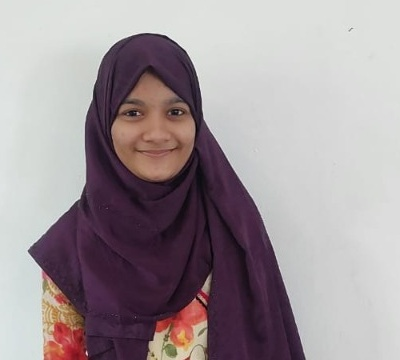
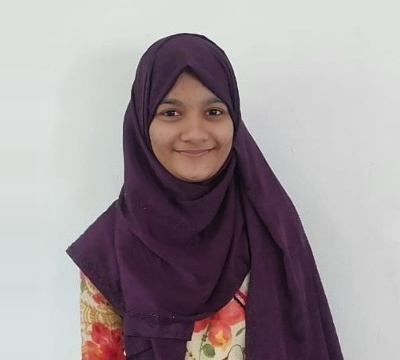
fix(team): center Reihana Parveen photo and support custom image position

diff --git a/src/data/teamData.ts b/src/data/teamData.ts
@@ -9,6 +9,7 @@ export interface TeamMember {
   aboutParagraphs: string[];
   careerObjective: string;
   image?: string;
+  imagePosition?: string;
   avatarPlaceholder: string;
   avatarGradient: string;
   skillCategories: {
@@ -747,6 +748,7 @@ export const TEAM_MEMBERS: TeamMember[] = [
     professionalTitle: 'B.Tech Graduate • Python Developer • Operations & Team Manager',
     responsibility: 'Motivated and enthusiastic BTech graduate driving organizational growth, operational efficiency, and team coordination.',
     image: '/assets/images/team/reihana-parveen.jpg',
+    imagePosition: 'object-center',
     avatarPlaceholder: 'RP',
     avatarGradient: 'from-purple-600 via-pink-600 to-rose-600',
     aboutParagraphs: [

diff --git a/src/app/team/[slug]/page.tsx b/src/app/team/[slug]/page.tsx
@@ -130,7 +130,7 @@ export default async function TeamMemberPortfolioPage({ params }: PageProps) {
                 <img 
                   src={member.image} 
                   alt={member.name}
-                  className="w-full h-full object-cover object-top transition-transform duration-500 group-hover:scale-105"
+                  className={`w-full h-full object-cover ${member.imagePosition || 'object-top'} transition-transform duration-500 group-hover:scale-105`}
                 />
                 <div className="absolute inset-0 bg-gradient-to-t from-black/80 via-transparent to-transparent opacity-80" />
                 <div className="absolute bottom-3 left-3 right-3 text-center">
